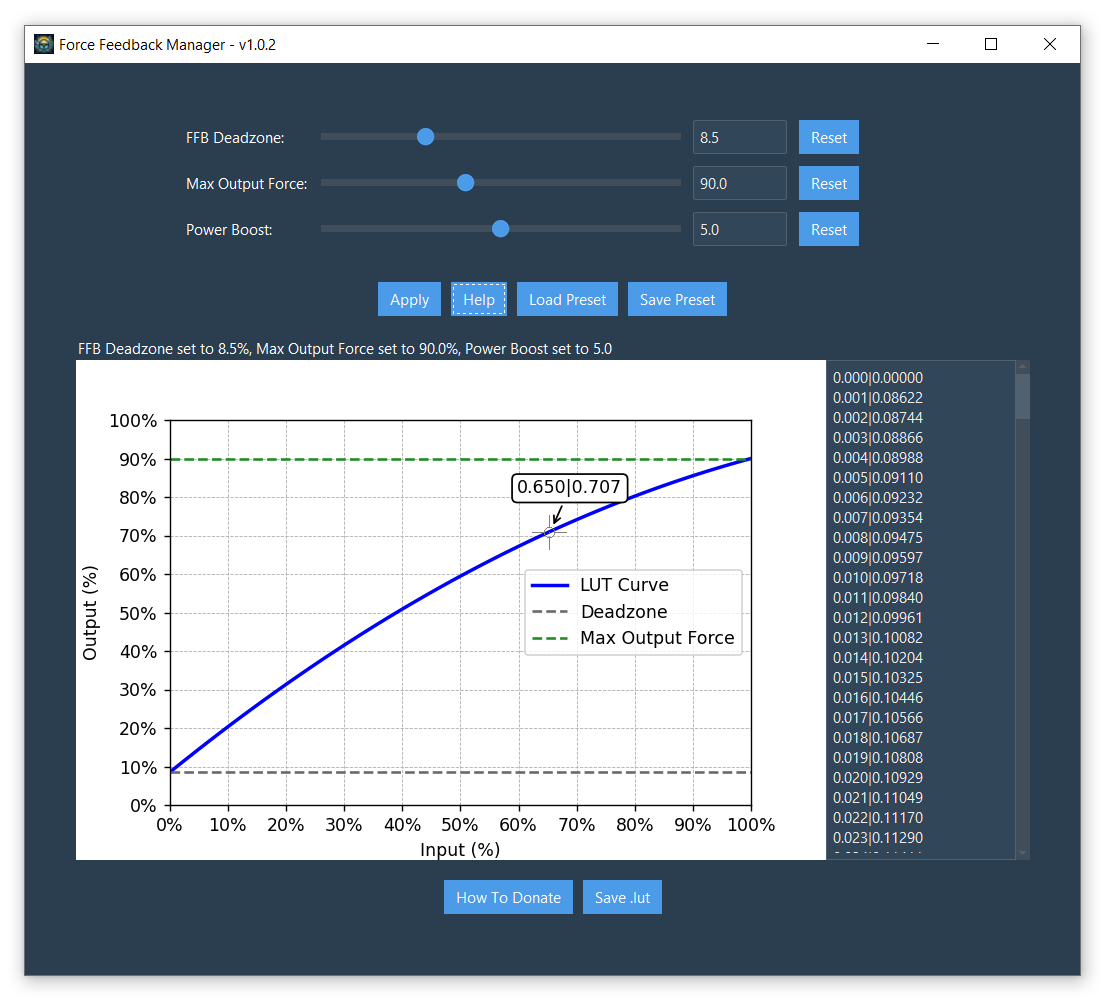
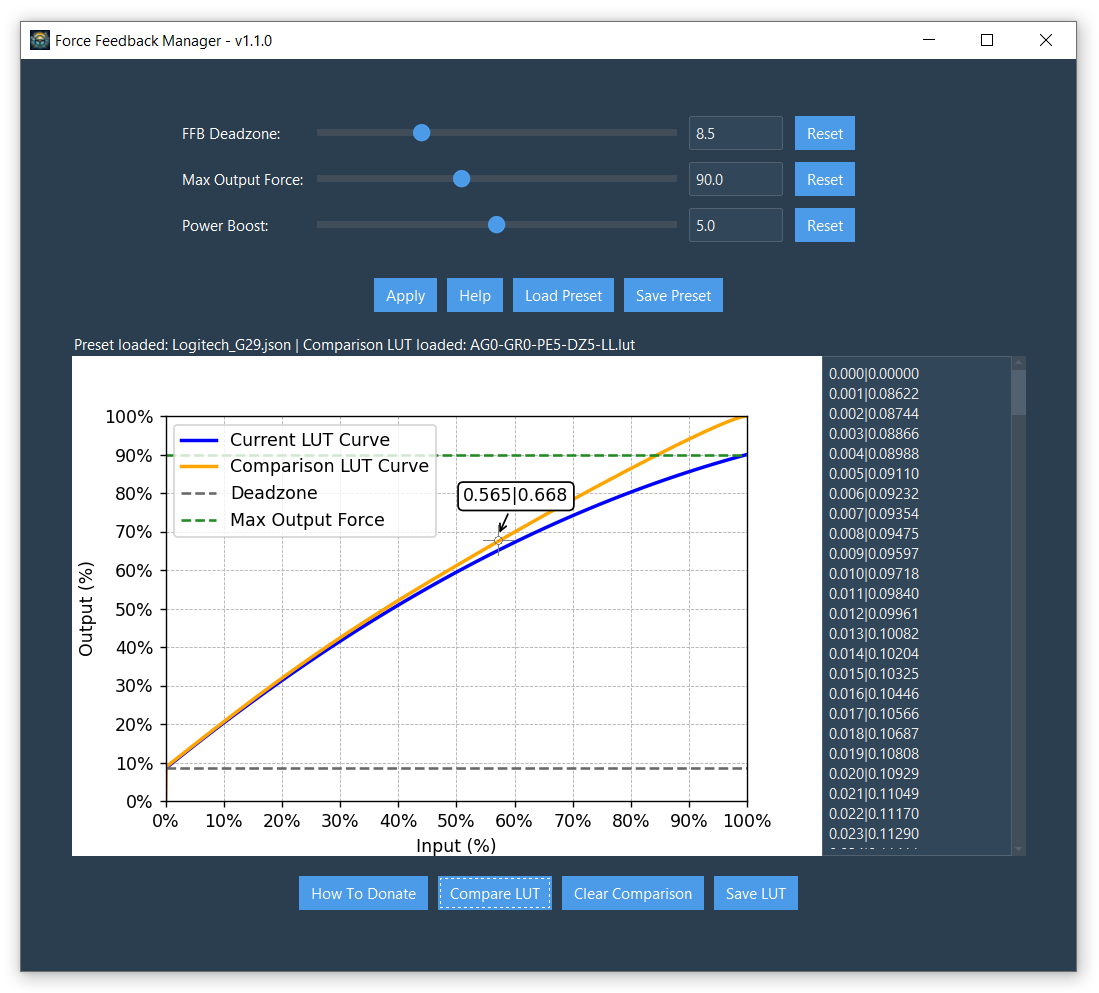
feat: added lut comparison

diff --git a/src/ForceFeedbackManager.py b/src/ForceFeedbackManager.py
@@ -86,14 +86,21 @@ def limit_value(value, min, max):
         return max
     return value
 
+
 class ForceFeedbackManagerApp:
 
     def __init__(self, root):
         """Initialize the application."""
         self.root = root
-        self.version = "v1.0.2"
+        self.version = "v1.1.0"
         self.title_string = "Force Feedback Manager - " + self.version
         self.root.title(self.title_string)
+        self.compare_lut = None
+        self.compare_lut_modified = False
+        self.loaded_preset_name = None
+        self.saved_lut_name = None
+        self.compare_lut_name = None
+
         print(self.title_string)
         
         # Create main frame
@@ -170,8 +177,16 @@ class ForceFeedbackManagerApp:
         donate_button = ttk.Button(final_button_frame, text="How To Donate", command=self.show_donation_popup)
         donate_button.pack(side=tk.LEFT, padx=5)
 
+        # Compare button
+        compare_button = ttk.Button(final_button_frame, text="Compare LUT", command=self.load_compare_lut)
+        compare_button.pack(side=tk.LEFT, padx=5)
+
+        # Clear Compare button
+        clear_compare_button = ttk.Button(final_button_frame, text="Clear Comparison", command=self.clear_comparison)
+        clear_compare_button.pack(side=tk.LEFT, padx=5)
+
         # Save button
-        self.save_button = ttk.Button(final_button_frame, text="Save .lut", command=self.save_lut)
+        self.save_button = ttk.Button(final_button_frame, text="Save LUT", command=self.save_lut)
         self.save_button.pack(side=tk.LEFT, padx=5)
 
         # Update window size
@@ -191,6 +206,42 @@ class ForceFeedbackManagerApp:
         print(f"Windows scaling factor: {scaling_factor * 100:.0f}%")
         print("Window resolution: " + str(mainframe_width) + " x " + str(mainframe_height))
 
+    def update_status_label(self):
+        """Update the status label with loaded preset, saved LUT, and compare LUT names."""
+        status_parts = []
+        if self.loaded_preset_name:
+            modified_text = " (modified)" if self.is_preset_modified() else ""
+            status_parts.append(f"Preset loaded: {self.loaded_preset_name}{modified_text}")
+        if self.saved_lut_name:
+            status_parts.append(f"LUT saved: {self.saved_lut_name}")
+        if self.compare_lut_name:
+            status_parts.append(f"Comparison LUT loaded: {self.compare_lut_name}")
+        status_text = " | ".join(status_parts) if status_parts else "Adjust FFB Deadzone, Max Output Force, and Power Boost, then click Apply."
+        self.status_label.config(text=status_text)
+
+    def load_compare_lut(self):
+        """Load and display a LUT file for comparison."""
+        file_path = filedialog.askopenfilename(defaultextension=".lut", filetypes=[("LUT files", "*.lut"), ("All files", "*.*")])
+        if file_path:
+            self.compare_lut = Lut()
+            with open(file_path, "r") as file:
+                for line in file:
+                    x, y = map(float, line.strip().split("|"))
+                    self.compare_lut.addPoint(x, y)
+            self.compare_lut_name = os.path.basename(file_path)
+            self.compare_lut_modified = True
+            self.update_status_label()
+            self.update_chart(compare_lut=self.compare_lut)
+
+
+    def clear_comparison(self):
+        """Clear the comparison LUT curve."""
+        self.compare_lut = None
+        self.compare_lut_name = None
+        self.update_chart()
+        self.compare_lut_modified = False
+        self.update_status_label()
+
     def save_preset(self):
         """Save the current slider values to a preset file."""
         preset = {
@@ -206,7 +257,8 @@ class ForceFeedbackManagerApp:
         if file_path:
             with open(file_path, "w") as file:
                 json.dump(preset, file)
-            self.status_label.config(text=f"Preset saved to {file_path}")
+            self.saved_lut_name = os.path.basename(file_path)
+            self.update_status_label()
 
     def load_preset(self):
         """Load slider values from a preset file."""
@@ -217,8 +269,13 @@ class ForceFeedbackManagerApp:
                 self.deadzone_value.set(preset["deadzone"])
                 self.max_output_value.set(preset["max_output"])
                 self.power_boost_value.set(preset["power_boost"])
+                # Save initial values
+                self.initial_deadzone_value = preset["deadzone"]
+                self.initial_max_output_value = preset["max_output"]
+                self.initial_power_boost_value = preset["power_boost"]
+            self.loaded_preset_name = os.path.basename(file_path)
+            self.update_status_label()
             self.apply_correction()
-            self.status_label.config(text=f"Preset loaded from {file_path}")
 
     def center_popup(self, popup):
         """Center the given popup window on the root window."""
@@ -357,7 +414,6 @@ class ForceFeedbackManagerApp:
         # Write the rest of the LUT
         lut_content = str(lut).split("\n")[1:]
         self.lut_output.insert(tk.END, "\n".join(lut_content))
-        self.status_label.config(text=f"FFB Deadzone set to {self.deadzone_value.get():.1f}%, Max Output Force set to {self.max_output_value.get():.1f}%, Power Boost set to {self.power_boost_value.get():.1f}")
         self.update_chart()
 
     def create_tooltip(self, event):
@@ -376,8 +432,8 @@ class ForceFeedbackManagerApp:
         self.tooltip.set_visible(False)
         self.canvas.draw_idle()
         
-    def update_chart(self):
-        """Update the chart with the current settings."""
+    def update_chart(self, compare_lut=None):
+        """Update the chart with the current settings, optionally comparing with another LUT."""
         self.ax.clear()
         lut_size = 100
         deadzone = self.deadzone_value.get()
@@ -388,10 +444,16 @@ class ForceFeedbackManagerApp:
         x_vals = [x for x, y in lut.points]
         y_vals = [y for x, y in lut.points]
         
-        line, = self.ax.plot(x_vals, y_vals, label='LUT Curve', color='blue', linewidth=2)
+        self.ax.plot(x_vals, y_vals, label='Current LUT Curve', color='blue', linewidth=2)
         
         # Find the intersection point of the LUT curve with the y-axis
         intersection_y = next((y for x, y in lut.points if x == 0), 0)
+
+        # Ensure the comparison LUT is always plotted if it exists
+        if self.compare_lut_modified and hasattr(self, 'compare_lut') and self.compare_lut:
+            compare_x_vals = [x for x, y in self.compare_lut.points]
+            compare_y_vals = [y for x, y in self.compare_lut.points]
+            self.ax.plot(compare_x_vals, compare_y_vals, label='Comparison LUT Curve', color='orange', linewidth=2)
         
         # Add horizontal line for deadzone
         if deadzone > 0.0:
@@ -408,7 +470,7 @@ class ForceFeedbackManagerApp:
         if max_output > 100.0:
             clipping_point = next((x for x, y in lut.points if y >= 1.0), 1.0)
             self.ax.axvline(clipping_point, color='red', linestyle='--', label='Clipping')
-        
+
         self.ax.set_ylim(0, 1)
         self.ax.set_xlim(0, 1)
         self.ax.set_xlabel('Input (%)')
@@ -429,6 +491,8 @@ class ForceFeedbackManagerApp:
         
         self.canvas.mpl_connect("motion_notify_event", self.create_tooltip)
         self.canvas.draw()
+
+        self.update_status_label()
         
     def save_lut(self):
         """Save the LUT to a file."""
@@ -441,8 +505,30 @@ class ForceFeedbackManagerApp:
         if file_path:
             with open(file_path, "w") as file:
                 file.write(lut_content)
-            self.status_label.config(text=f"LUT saved to {file_path}")
+            self.saved_lut_name = os.path.basename(file_path)
+            self.update_status_label()
             self.show_donation_popup()
+
+    def load_compare_lut(self):
+        """Load and display a LUT file for comparison."""
+        file_path = filedialog.askopenfilename(defaultextension=".lut", filetypes=[("LUT files", "*.lut"), ("All files", "*.*")])
+        if file_path:
+            self.compare_lut = Lut()
+            with open(file_path, "r") as file:
+                for line in file:
+                    x, y = map(float, line.strip().split("|"))
+                    self.compare_lut.addPoint(x, y)
+            self.compare_lut_name = os.path.basename(file_path)
+            self.compare_lut_modified = True
+            self.update_status_label()
+            self.update_chart(compare_lut=self.compare_lut)
+
+    def is_preset_modified(self):
+        """Check if the current preset values have been modified."""
+        return (self.loaded_preset_name and (
+            self.deadzone_value.get() != self.initial_deadzone_value or
+            self.max_output_value.get() != self.initial_max_output_value or
+            self.power_boost_value.get() != self.initial_power_boost_value))
 
     def show_donation_popup(self):
         popup = tk.Toplevel(self.root)
